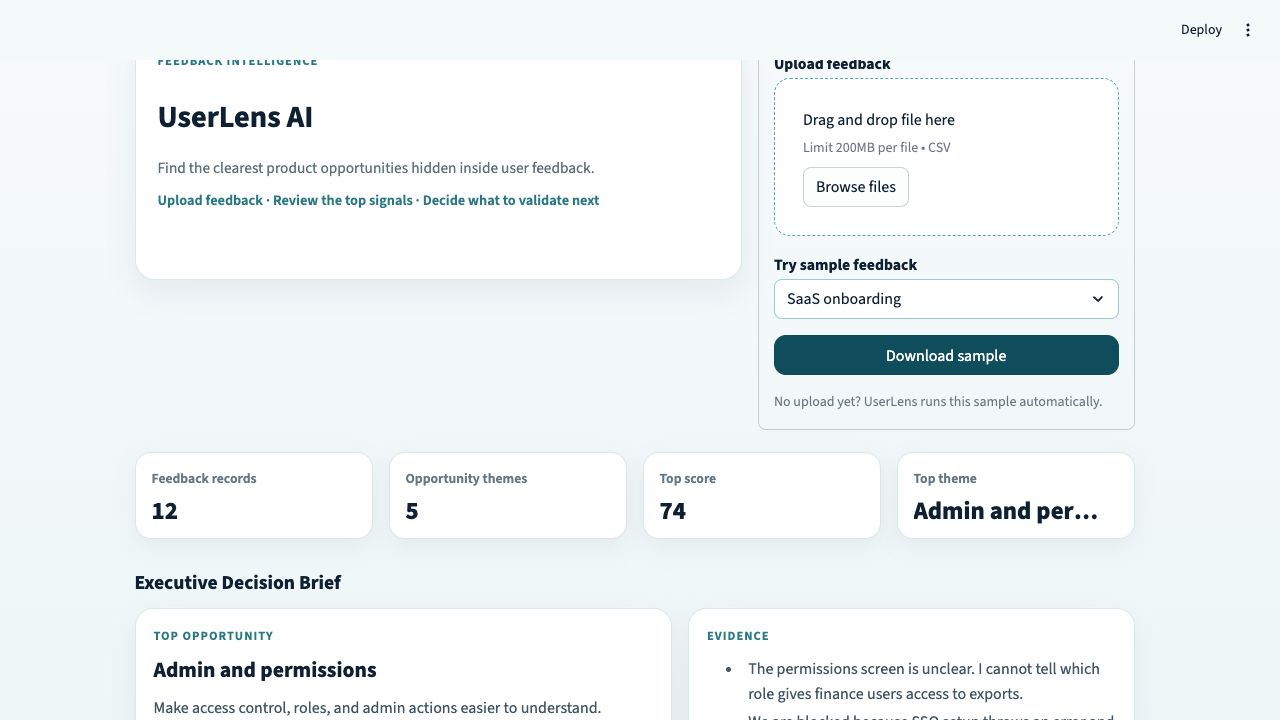
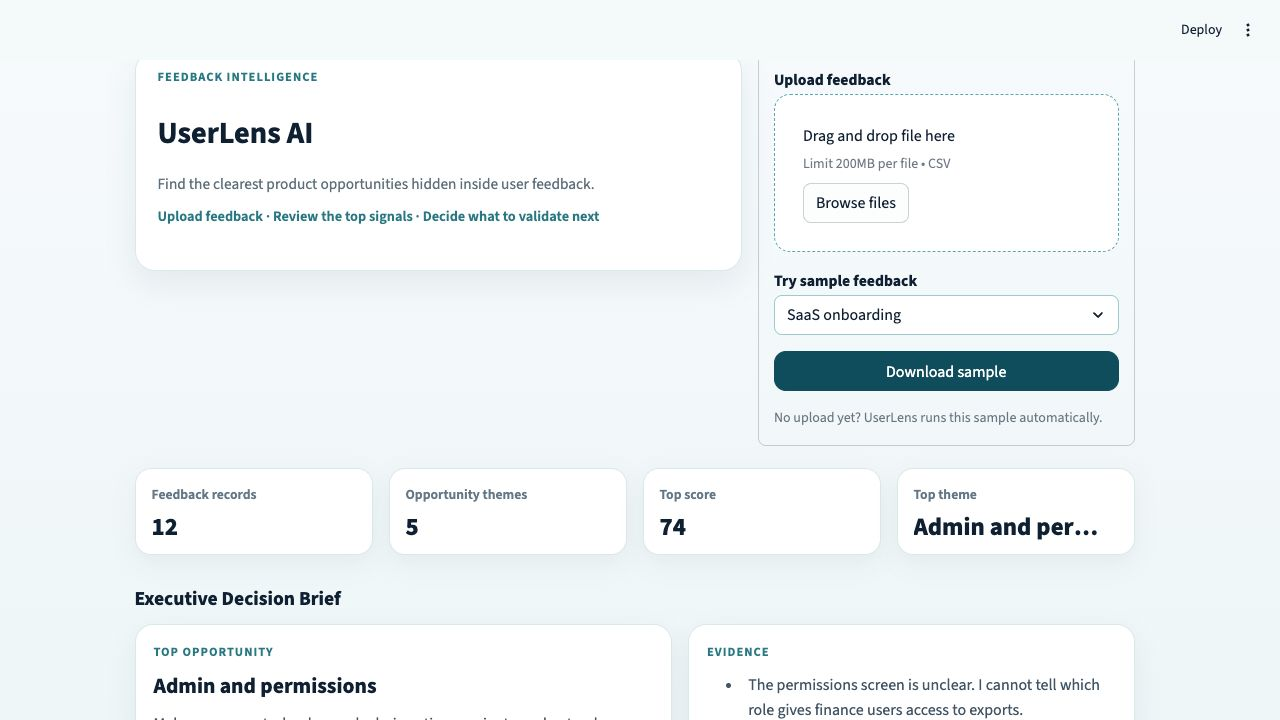
Fix dashboard header spacing

diff --git a/app.py b/app.py
@@ -32,7 +32,7 @@ st.markdown(
         color: #102033;
     }
     .block-container {
-        padding-top: 1.2rem;
+        padding-top: 2.2rem;
         padding-bottom: 3rem;
         max-width: 1160px;
     }
@@ -108,7 +108,7 @@ st.markdown(
         padding: 16px 22px;
         box-shadow: 0 12px 30px rgba(15, 45, 61, 0.07);
         margin-bottom: 10px;
-        min-height: 245px;
+        min-height: 220px;
     }
     .eyebrow {
         color: #287782;
